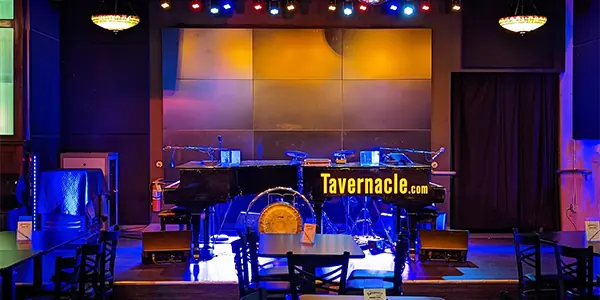
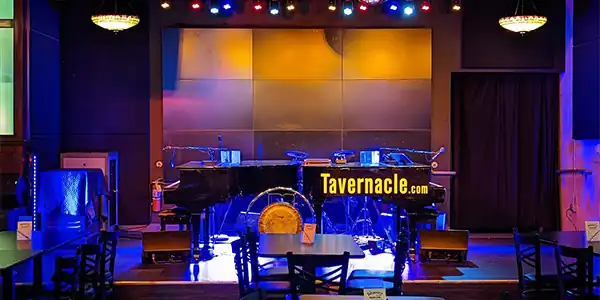
more optimize, so close to 100s

diff --git a/scripts/optimize-images.js b/scripts/optimize-images.js
@@ -5,10 +5,10 @@ const path = require('path');
 const publicDir = path.join(__dirname, '..', 'public');
 
 async function optimizeImages() {
-  // Optimize logo.png
+  // Optimize logo.png with aggressive compression
   console.log('Optimizing logo.png...');
   await sharp(path.join(publicDir, 'logo.png'))
-    .webp({ quality: 85, effort: 6 })
+    .webp({ quality: 60, effort: 6 })
     .toFile(path.join(publicDir, 'logo.webp'));
   
   const logoStats = fs.statSync(path.join(publicDir, 'logo.png'));
@@ -16,10 +16,10 @@ async function optimizeImages() {
   console.log(`logo.png: ${(logoStats.size / 1024).toFixed(1)}KB -> logo.webp: ${(logoWebpStats.size / 1024).toFixed(1)}KB`);
   console.log(`Savings: ${((1 - logoWebpStats.size / logoStats.size) * 100).toFixed(1)}%`);
 
-  // Optimize tavernacle-stage.jpg
+  // Optimize tavernacle-stage.jpg with lower quality (it's blurred anyway)
   console.log('\nOptimizing tavernacle-stage.jpg...');
   await sharp(path.join(publicDir, 'tavernacle-stage.jpg'))
-    .webp({ quality: 75, effort: 6 })
+    .webp({ quality: 50, effort: 6 })
     .toFile(path.join(publicDir, 'tavernacle-stage.webp'));
   
   const stageStats = fs.statSync(path.join(publicDir, 'tavernacle-stage.jpg'));

diff --git a/app/page.tsx b/app/page.tsx
@@ -68,7 +68,7 @@ export default function Home() {
             fill
             className="object-cover blur-sm opacity-40"
             sizes="100vw"
-            quality={75}
+            quality={50}
             priority
           />
           {/* Dark overlay for readability */}
@@ -109,8 +109,8 @@ export default function Home() {
               width={600}
               height={200}
               className="mx-auto h-24 sm:h-28 md:h-32 lg:h-36 w-auto"
-              sizes="(max-width: 640px) 384px, (max-width: 768px) 448px, (max-width: 1024px) 512px, 576px"
-              quality={85}
+              sizes="(max-width: 640px) 192px, (max-width: 768px) 224px, (max-width: 1024px) 256px, 288px"
+              quality={60}
               priority
             />
           </div>

diff --git a/next.config.ts b/next.config.ts
@@ -24,7 +24,7 @@ const nextConfig: NextConfig = {
     formats: ["image/avif", "image/webp"],
     deviceSizes: [640, 750, 828, 1080, 1200, 1920, 2048, 3840],
     imageSizes: [16, 32, 48, 64, 96, 128, 256, 384],
-    qualities: [50, 60, 75, 85], // Custom quality levels for optimized images
+    qualities: [50, 60, 75], // Custom quality levels for optimized images
     minimumCacheTTL: 60,
     dangerouslyAllowSVG: true,
     contentDispositionType: 'attachment',

diff --git a/app/components/Header.tsx b/app/components/Header.tsx
@@ -34,7 +34,7 @@ export default function Header() {
                 height={60}
                 className="h-12 w-auto"
                 sizes="180px"
-                quality={85}
+                quality={60}
                 priority
               />
             </Link>
